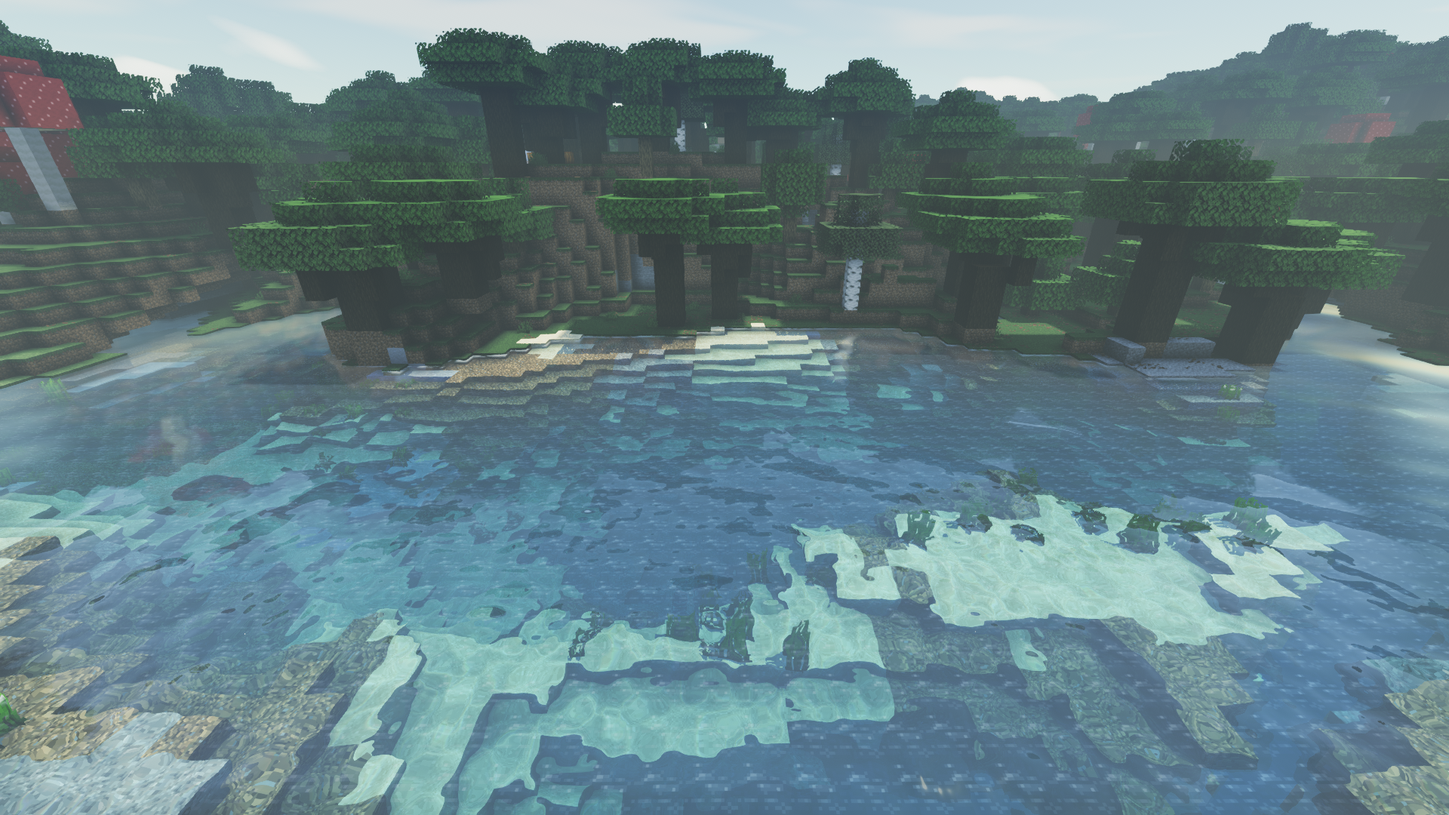
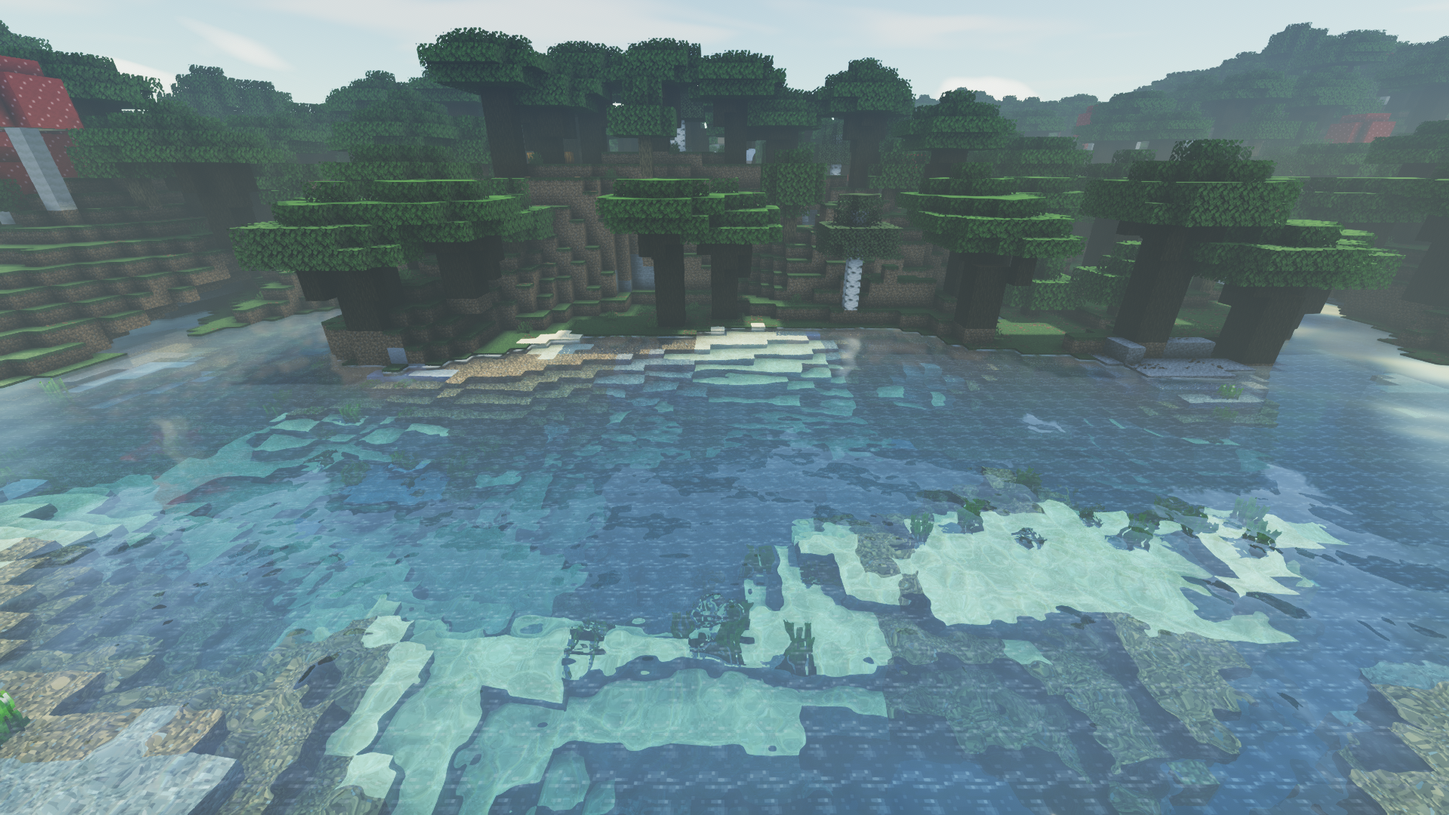
Тени и GI не проступают сквозь туман пака, отражения без чёрных пятен; 0.2.2
Мод рисует поверх кадра, где туман пака уже наложен, и тень проступала
сквозь дымку тёмными блоками. Теперь мод сам оценивает прозрачность
воздуха по расстоянию: сравнивает картинку пака со своей моделью
освещения (наклон ковариации по 8 корзинам через 16 блоков), сглаживает
по кадрам и ослабляет тени, GI и цвет модели в отражениях на T².

Отражения: рассеянный свет из кэша не ниже половины небесного (чёрные
грани у воды), через дымку берётся цвет кадра. README: пересняты тени
пака и мода и рябь на этой версии.

Проверено в игре у озера утром с Zenith RT; тени вблизи сохраняются.

diff --git a/mod/src/mixins/passes.rs b/mod/src/mixins/passes.rs
@@ -108,6 +108,11 @@ fn zenith_passes(world: &mut WorldDrawn<'_>) {
         brick_build: wgpu::ComputePipeline,
         /// The texture origins of this frame's uploaded sections, for `brick_build`.
         brick_slots: wgpu::Buffer,
+        /// The fog samples of this frame, the clearness per distance they resolve to, and the
+        /// pass that resolves them.
+        fog_stats: wgpu::Buffer,
+        fog_t: wgpu::Buffer,
+        fog_resolve: wgpu::ComputePipeline,
         frame: u32,
         /// When the engine was made: the waves' clock.
         epoch: ::std::time::Instant,
@@ -441,6 +446,38 @@ fn sun_ray(pos: vec3<f32>, steps: i32) -> f32 {
 }
 "#;
     const TRACE: &str = r#"
+@group(0) @binding(6) var picture: texture_2d<f32>;
+// Per 16-block distance bin (8 of them), fixed point 1/1024 except the count: count, sum of the
+// picture's luma P, of the model's luma M, of P², of M², of P·M. Cleared every frame.
+@group(0) @binding(24) var<storage, read_write> fog_stats: array<atomic<u32>, 48>;
+
+// One fog sample: the pack's picture (before the engine's passes) at depth pixel `px` against the
+// model's unshadowed light times the block's colour there. Fog compresses how the picture follows
+// the model, so the slope of P over M in a bin, against the nearest bin's, is how clear the air
+// is that far: what the engine's shadows and bounce may still change there.
+fn fog_sample(px: vec2<i32>, p: vec3<f32>, n: vec3<f32>, dist: f32) {
+    let cell = vec3<i32>(floor(u.cam_frac.xyz + p - n * 0.05)) + u.cam_block.xyz;
+    let c = voxel(cell);
+    if (c == OUTSIDE || (c & 63u) == 0u || (c & 63u) == 12u || dist >= 128.0) {
+        return;
+    }
+    let here = light_smooth(u.cam_frac.xyz + p + n * 0.06);
+    let light = 0.04 + here.x * here.x * u.gi.z + 0.35 * here.y * here.y * (0.1 + 0.9 * u.gi.y)
+        + max(dot(n, normalize(u.sun.xyz)), 0.0) * u.gi.y;
+    let a = albedo_face(cell, n);
+    let m = min(dot(a, vec3<f32>(0.2126, 0.7152, 0.0722)) * light, 4.0);
+    let uv = (vec2<f32>(px) + 0.5) / vec2<f32>(u.size.xy);
+    let shown = textureLoad(picture, vec2<i32>(uv * vec2<f32>(u.size.zw)), 0).rgb;
+    let q = min(dot(shown, vec3<f32>(0.2126, 0.7152, 0.0722)), 4.0);
+    let o = u32(dist / 16.0) * 6u;
+    atomicAdd(&fog_stats[o], 1u);
+    atomicAdd(&fog_stats[o + 1u], u32(q * 1024.0));
+    atomicAdd(&fog_stats[o + 2u], u32(m * 1024.0));
+    atomicAdd(&fog_stats[o + 3u], u32(q * q * 1024.0));
+    atomicAdd(&fog_stats[o + 4u], u32(m * m * 1024.0));
+    atomicAdd(&fog_stats[o + 5u], u32(q * m * 1024.0));
+}
+
 @group(0) @binding(2) var mask_out: texture_storage_2d<rgba8unorm, write>;
 // Mobs and players, camera-relative: `u.misc.w` entries of two vec4 each, the whole model's box
 // (lowest corner, w its first part; highest corner, w its part count), then from vec4 128 the
@@ -512,6 +549,9 @@ fn trace(@builtin(global_invocation_id) id: vec3<u32>) {
         let p = position_at(px, d);
         let n = normal_at(px, p);
         vis = sun_visibility(p, n);
+        if ((id.x & 7u) == 0u && (id.y & 7u) == 0u) {
+            fog_sample(px, p, n, length(p));
+        }
         let here = light_smooth(u.cam_frac.xyz + p + n * 0.06);
         torch = here.x * here.x;
         // The sun's share of the light here, against a sunward open surface's (about 0.55): the
@@ -866,7 +906,9 @@ fn direct_light(at: vec3<f32>, n: vec3<f32>) -> f32 {
     if (u.gi_size.z != 0u && u.cache.x > 0.0) {
         let cached = cache_at(at);
         if (any(cached > vec3<f32>(0.0))) {
-            ambient = refl_luma(cached);
+            // Never below half the sky's: a probe by the water or in a gap can see little and
+            // turned the faces it lit black.
+            ambient = max(refl_luma(cached), 0.5 * ambient);
         }
     }
     var direct = 0.04 + here.x * here.x * u.gi.z + ambient;
@@ -1003,6 +1045,7 @@ fn reflect_trace(@builtin(global_invocation_id) id: vec3<u32>) {
                     // surface seen there matches it: a smooth weight, not a yes or no, so
                     // neighbouring texels don't flip between the picture and the model.
                     var shown = vec3<f32>(0.0);
+                    var sampled = false;
                     var trust = 0.0;
                     let clip = u.vp * vec4<f32>(rel, 1.0);
                     if (clip.w > 0.0) {
@@ -1018,6 +1061,7 @@ fn reflect_trace(@builtin(global_invocation_id) id: vec3<u32>) {
                                 trust = (1.0 - smoothstep(tolerance, 3.0 * tolerance, length(seen - rel)))
                                     * smoothstep(0.0, 0.05, edge);
                                 shown = textureLoad(picture, vec2<i32>(uv * vec2<f32>(u.size.zw)), 0).rgb;
+                                sampled = true;
                             }
                         }
                     }
@@ -1036,7 +1080,10 @@ fn reflect_trace(@builtin(global_invocation_id) id: vec3<u32>) {
                     }
                     var colour = vec3<f32>(-1.0);
                     if (model.x >= 0.0) {
-                        colour = mix(model, shown, trust);
+                        // The model knows no fog: through haze the picture's colour there (fog
+                        // tinted, even off the hit) is the better guess.
+                        let hazy = select(0.0, 1.0 - fog_clear(length(rel)), sampled);
+                        colour = mix(model, shown, max(trust, hazy));
                     } else if (trust > 0.0) {
                         colour = shown;
                     }
@@ -1131,6 +1178,63 @@ fn reflect_blend(@builtin(position) pos: vec4<f32>) -> @location(0) vec4<f32> {
     let view = normalize(position_at(px, d));
     let f = 0.02 + 0.98 * pow(1.0 - clamp(-view.y, 0.0, 1.0), 5.0);
     return vec4<f32>(sum / weight, clamp(weight / water * f * u.cache.z, 0.0, 1.0));
+}
+"#;
+    const FOG_RESOLVE: &str = r#"
+@group(0) @binding(24) var<storage, read> fog_stats: array<u32, 48>;
+// How clear the air is in each 16-block bin (1 clear, 0 all fog), eased over frames; [8] is the
+// near bins' slope everything is measured against.
+@group(0) @binding(25) var<storage, read_write> fog_t: array<f32, 9>;
+
+fn slope(b: u32) -> f32 {
+    let o = b * 6u;
+    let n = f32(fog_stats[o]);
+    if (n < 64.0) {
+        return -1.0;
+    }
+    let mp = f32(fog_stats[o + 1u]) / 1024.0 / n;
+    let mm = f32(fog_stats[o + 2u]) / 1024.0 / n;
+    let var_m = f32(fog_stats[o + 4u]) / 1024.0 / n - mm * mm;
+    let cov = f32(fog_stats[o + 5u]) / 1024.0 / n - mp * mm;
+    if (var_m < 1e-3) {
+        return -1.0;
+    }
+    return cov / var_m;
+}
+
+@compute @workgroup_size(1)
+fn fog_resolve() {
+    var reference = slope(0u);
+    if (reference <= 0.0) {
+        reference = slope(1u);
+    }
+    if (reference > 0.0) {
+        fog_t[8] = select(mix(fog_t[8], reference, 0.08), reference, fog_t[8] <= 0.0);
+    }
+    let r = fog_t[8];
+    var carried = 1.0;
+    for (var b = 0u; b < 8u; b++) {
+        let s = slope(b);
+        var clear = carried;
+        if (s >= 0.0 && r > 0.0) {
+            clear = clamp(s / r, 0.0, 1.0);
+        }
+        carried = clear;
+        fog_t[b] = mix(fog_t[b], clear, 0.08);
+    }
+}
+"#;
+    const FOG_READ: &str = r#"
+@group(0) @binding(25) var<storage, read> fog_t: array<f32, 9>;
+
+// How clear the air is `dist` blocks away, between the bins' centres.
+fn fog_clear(dist: f32) -> f32 {
+    let x = max(dist / 16.0 - 0.5, 0.0);
+    let i = min(u32(floor(x)), 7u);
+    let clear = mix(fog_t[i], fog_t[min(i + 1u, 7u)], clamp(x - f32(i), 0.0, 1.0));
+    // Squared: the slope ratio is a noisy estimate, and a shadow through haze shows as a
+    // ghost long before the haze is complete; clear air (1) stays 1.
+    return clear * clear;
 }
 "#;
     const BRICK_BUILD: &str = r#"
@@ -1300,7 +1404,7 @@ fn bounce(pos: vec4<f32>) -> vec3<f32> {
     // own colours. Only the bounce, what is left above it, takes the block's hue.
     let darker = min(min(ratio.x, min(ratio.y, ratio.z)), 0.0);
     let brighter = ratio - vec3<f32>(darker);
-    return (colour * darker + shown * brighter * hue) * u.gi.x * fade;
+    return (colour * darker + shown * brighter * hue) * u.gi.x * fade * fog_clear(dist);
 }
 
 @fragment
@@ -1363,7 +1467,9 @@ fn visibility(pos: vec4<f32>) -> f32 {
     }
     let vis = sum / max(weight, 1e-4);
     let dist = length(position_at(px, d0));
-    let fade = 1.0 - smoothstep(u.params.y, u.params.z, dist);
+    // Faded toward the window's edge, and by the pack's fog there: the picture is already fogged,
+    // and a shadow multiplied into the fog would show through it.
+    let fade = (1.0 - smoothstep(u.params.y, u.params.z, dist)) * fog_clear(dist);
     return mix(1.0, vis, fade);
 }
 
@@ -1573,6 +1679,29 @@ fn replace(@builtin(position) pos: vec4<f32>) -> @location(0) vec4<f32> {
             usage: wgpu::BufferUsages::STORAGE | wgpu::BufferUsages::COPY_DST,
             mapped_at_creation: false,
         });
+        let fog_stats = device.create_buffer(&wgpu::BufferDescriptor {
+            label: Some("zenith_engine fog samples"),
+            size: 48 * 4,
+            usage: wgpu::BufferUsages::STORAGE | wgpu::BufferUsages::COPY_DST,
+            mapped_at_creation: false,
+        });
+        let fog_t = device.create_buffer(&wgpu::BufferDescriptor {
+            label: Some("zenith_engine fog clearness"),
+            size: 9 * 4,
+            usage: wgpu::BufferUsages::STORAGE,
+            mapped_at_creation: true,
+        });
+        {
+            let mut ones: Vec<u8> = Vec::with_capacity(36);
+            for i in 0..9 {
+                ones.extend_from_slice(&f32::to_ne_bytes(if i < 8 { 1.0 } else { 0.0 }));
+            }
+            if let Ok(mut range) = fog_t.slice(..).get_mapped_range_mut() {
+                range.copy_from_slice(&ones);
+            }
+        }
+        fog_t.unmap();
+        let fog_resolve = compute(device, "zenith_engine fog resolve", FOG_RESOLVE.to_owned(), "fog_resolve");
         let dummy = device
             .create_texture(&wgpu::TextureDescriptor {
                 label: Some("zenith_engine no target"),
@@ -1592,7 +1721,7 @@ fn replace(@builtin(position) pos: vec4<f32>) -> @location(0) vec4<f32> {
         let reflect = compute(
             device,
             "zenith_engine reflect",
-            format!("{UNIFORM}{DEPTH}{VOXEL}{MARCH}{CACHE}{REFLECT}"),
+            format!("{UNIFORM}{DEPTH}{VOXEL}{MARCH}{CACHE}{FOG_READ}{REFLECT}"),
             "reflect_trace",
         );
         let reflect_temporal = compute(
@@ -1619,7 +1748,7 @@ fn replace(@builtin(position) pos: vec4<f32>) -> @location(0) vec4<f32> {
             format!("{UNIFORM}{DEPTH}{GI_TEMPORAL}"),
             "gi_temporal",
         );
-        let shade = module(device, "zenith_engine shade", format!("{UNIFORM}{SHADE}"));
+        let shade = module(device, "zenith_engine shade", format!("{UNIFORM}{FOG_READ}{SHADE}"));
         // The picture times the shade: colour = src * dst, alpha kept.
         let multiply_blend = wgpu::BlendState {
             color: wgpu::BlendComponent {
@@ -1638,7 +1767,7 @@ fn replace(@builtin(position) pos: vec4<f32>) -> @location(0) vec4<f32> {
         let gi_shade = module(
             device,
             "zenith_engine gi shade",
-            format!("{UNIFORM}{DEPTH}{VOXEL}{GI_SHADE}"),
+            format!("{UNIFORM}{DEPTH}{VOXEL}{FOG_READ}{GI_SHADE}"),
         );
         // The picture plus the bounce, alpha kept.
         let add_blend = wgpu::BlendState {
@@ -1735,6 +1864,9 @@ fn replace(@builtin(position) pos: vec4<f32>) -> @location(0) vec4<f32> {
             dummy,
             bricks_view,
             sections_view,
+            fog_stats,
+            fog_t,
+            fog_resolve,
             brick_build,
             brick_slots,
             format,
@@ -2027,7 +2159,10 @@ fn replace(@builtin(position) pos: vec4<f32>) -> @location(0) vec4<f32> {
             }
         }
     }
-    let wants_picture = settings.gi != 0 || settings.reflections > 0.0 || !engine.pack_pipelines.is_empty();
+    let wants_picture = settings.shadows != 0
+        || settings.gi != 0
+        || settings.reflections > 0.0
+        || !engine.pack_pipelines.is_empty();
     if wants_picture && !picture_fits {
         let texture = device.create_texture(&wgpu::TextureDescriptor {
             label: Some("zenith_engine picture"),
@@ -2433,7 +2568,18 @@ fn replace(@builtin(position) pos: vec4<f32>) -> @location(0) vec4<f32> {
     let previous = &engine.gi_history[engine.gi_last];
     let next = &engine.gi_history[1 - engine.gi_last];
 
-    if settings.shadows != 0 {
+    if let (true, Some((copy, picture))) = (settings.shadows != 0, engine.picture.as_ref()) {
+        // The pack's picture as it came, for the fog samples.
+        world.encoder.copy_texture_to_texture(
+            world.color.as_image_copy(),
+            copy.as_image_copy(),
+            wgpu::Extent3d {
+                width,
+                height,
+                depth_or_array_layers: 1,
+            },
+        );
+        world.encoder.clear_buffer(&engine.fog_stats, 0, None);
         {
             let group = device.create_bind_group(&wgpu::BindGroupDescriptor {
                 label: Some("zenith_engine trace"),
@@ -2444,9 +2590,12 @@ fn replace(@builtin(position) pos: vec4<f32>) -> @location(0) vec4<f32> {
                     entry(2, view(mask_view)),
                     entry(3, view(&engine.voxel_view)),
                     entry(4, view(&engine.sky_view)),
+                    entry(6, view(picture)),
+                    entry(9, view(&engine.colour_view)),
                     entry(10, engine.boxes.as_entire_binding()),
                     entry(16, view(&engine.bricks_view)),
                     entry(19, view(&engine.sections_view)),
+                    entry(24, engine.fog_stats.as_entire_binding()),
                 ],
             });
             let mut pass = world
@@ -2459,6 +2608,23 @@ fn replace(@builtin(position) pos: vec4<f32>) -> @location(0) vec4<f32> {
             pass.set_bind_group(0, &group, &[]);
             pass.dispatch_workgroups(depth_w.div_ceil(8), depth_h.div_ceil(8), 1);
         }
+        let group = device.create_bind_group(&wgpu::BindGroupDescriptor {
+            label: Some("zenith_engine fog resolve"),
+            layout: &engine.fog_resolve.get_bind_group_layout(0),
+            entries: &[
+                entry(24, engine.fog_stats.as_entire_binding()),
+                entry(25, engine.fog_t.as_entire_binding()),
+            ],
+        });
+        let mut pass = world
+            .encoder
+            .begin_compute_pass(&wgpu::ComputePassDescriptor {
+                label: Some("zenith_engine fog resolve"),
+                timestamp_writes: None,
+            });
+        pass.set_pipeline(&engine.fog_resolve);
+        pass.set_bind_group(0, &group, &[]);
+        pass.dispatch_workgroups(1, 1, 1);
     }
     if settings.gi != 0 && settings.gi_bounces > 0.0 {
         let group = device.create_bind_group(&wgpu::BindGroupDescriptor {
@@ -2603,6 +2769,7 @@ fn replace(@builtin(position) pos: vec4<f32>) -> @location(0) vec4<f32> {
             entry(1, view(mask_view)),
             entry(2, view(world.depth)),
         ];
+        entries.push(entry(25, engine.fog_t.as_entire_binding()));
         if settings.shadows == 1 {
             entries.push(entry(3, view(shafts_view)));
         }
@@ -2655,6 +2822,7 @@ fn replace(@builtin(position) pos: vec4<f32>) -> @location(0) vec4<f32> {
                 entry(5, view(&engine.gi_filtered[1])),
                 entry(6, view(picture)),
                 entry(9, view(&engine.colour_view)),
+                entry(25, engine.fog_t.as_entire_binding()),
             ],
         });
         let mut pass = world.encoder.begin_render_pass(&wgpu::RenderPassDescriptor {
@@ -2711,6 +2879,7 @@ fn replace(@builtin(position) pos: vec4<f32>) -> @location(0) vec4<f32> {
                     entry(16, view(&engine.bricks_view)),
                     entry(19, view(&engine.sections_view)),
                     entry(15, engine.exposure.as_entire_binding()),
+                    entry(25, engine.fog_t.as_entire_binding()),
                 ],
             });
             let mut pass = world

diff --git a/README.md b/README.md
@@ -106,7 +106,7 @@
 | `shadows` | `auto` (по умолчанию) — когда у выбранного пака включена опция `engine_shadows`; `on`; `off`; `mask` — только маска теней |
 | `shadow_strength` | на сколько умножается полностью затенённый пиксель, 0–1. По умолчанию 0.45: так же темна тень самого Zenith (замер на песке, Zenith RT Ultra, 8 утра) |
 | `gi` | `auto` (по умолчанию) — вместе с тенями мода, кроме Zenith RT в режиме Full RT, где у пака свой GI; `on`; `off`; `debug` — только отражённый свет |
-| `gi_strength` | сколько отражённого света прибавить, 0–4. По умолчанию 1, физически ровно |
+| `gi_strength` | сколько отражённого света прибавить, 0–4. По умолчанию 0.7; прибавка мягко ограничена ~40% яркости пикселя |
 | `gi_block_light` | насколько ярок свет факелов и лавы в отскоке по сравнению с солнцем (1), 0–4. По умолчанию 1.2 |
 | `gi_emissive` | насколько ярко светящиеся блоки (лава, светокамень) светят через лучи, 0–8. По умолчанию 1.5 |
 | `gi_bounces` | сколько света прошлых отскоков (кэш излучения) приносят лучи, 0 (один отскок) – 1. По умолчанию 0.7 |
@@ -118,12 +118,12 @@
 
 ## Известные недостатки
 
-- **Наложение на готовый кадр.** Тени ложатся после тонмаппинга пака, поэтому мод не знает, какая часть пикселя — солнце. Он оценивает долю солнца по своей модели (угол к солнцу против рассеянного света неба и света от блоков) и затемняет только её: грани, освещённые вскользь, и вода темнеют меньше, свет факелов в тени сохраняется. Это оценка, а не точное разделение света пака.
+- **Наложение на готовый кадр.** Тени ложатся после тонмаппинга пака, поэтому мод не знает, какая часть пикселя — солнце. Он оценивает долю солнца по своей модели (угол к солнцу против рассеянного света неба и света от блоков) и затемняет только её: грани, освещённые вскользь, и вода темнеют меньше, свет факелов в тени сохраняется. Это оценка, а не точное разделение света пака. **Туман пака** уже нарисован в кадре, и тень, умноженная поверх, проступала бы сквозь дымку тёмными блоками. Поэтому мод каждый кадр оценивает прозрачность воздуха на каждом расстоянии: в ~32 тыс. точек сравнивает картинку пака со своей моделью освещения, и наклон зависимости «модель → картинка» вдали против наклона вблизи даёт, насколько дымка гасит детали. Тень и GI ослабляются на квадрат этой прозрачности. Это оценка: в очень неоднородном тумане (полоса над водой) слабые следы теней могут остаться.
 - **Сущности.** Тень моба собирается из коробок частей модели (повёрнутая часть даёт чуть большую коробку), не больше 448 частей на кадр. В GI и отражениях сущностей нет.
 - **GI.** Многократные отскоки идут через грубый кэш излучения (зонды через 2 блока), поэтому вторичный свет мягкий и сходится за несколько секунд после изменений. Прибавка мягко ограничена удвоением яркости пикселя: в замкнутых комнатах свет от блоков Minecraft уже заливает стены, и полный отскок поверх него выбеливал их. Денойзер — два прохода à-trous поверх накопления по кадрам.
 - **Цвета блоков.** Два средних цвета на блок (верхняя и боковая грань, подкраска биома по месту камеры при первой встрече блока), а не текстура целиком. После смены ресурспака (F3+T) цвета читаются заново по мере того, как игра перестраивает секции.
 - **Стоимость** на 1920×1080, RX 7600, Zenith RT Ultra, у озера в лесу, по собственным timestamp-запросам мода (в скобках — без пропуска пустоты, `skip_empty = off`): трассировка теней 0,83 мс (3,64), трассировка GI 1,42 мс (4,07), объёмные тени 0,80 мс (1,21), отражения 0,28 мс (0,70), кэш излучения 0,07 мс, наложение теней 0,21 мс, наложение GI 0,26 мс, остальное меньше 0,1 мс; всего около 4 мс GPU, CPU мода около 1 мс. Мод пишет эти средние в лог игры раз в 2 секунды (`zenith_engine timing`).
-- **Отражения.** Только вода. Высота поверхности считается ровной (8/9 блока), а рябь своя: пять бегущих волн мода, а не волны пака, поэтому блики пака и изгибы отражения не совпадают. Отражение считается в половинном разрешении и смешивается билинейно; при сильной ряби у берега края всё равно мягче, чем у пака. Небо отражает сам пак: мод рисует только попадания в блоки. За краем экрана блок окрашен одним средним цветом грани (верх или бок), а освещение мода приближённое: солнце, свет от блоков и рассеянный свет из кэша GI (без GI — vanilla-свет неба), подогнанные под кадр по яркости и насыщенности. Трава и цветы не отражаются, как и сущности.
+- **Отражения.** Только вода. Высота поверхности считается ровной (8/9 блока), а рябь своя: пять бегущих волн мода, а не волны пака, поэтому блики пака и изгибы отражения не совпадают. Отражение считается в половинном разрешении и смешивается билинейно; при сильной ряби у берега края всё равно мягче, чем у пака. Небо отражает сам пак: мод рисует только попадания в блоки. За краем экрана блок окрашен одним средним цветом грани (верх или бок), а освещение мода приближённое: солнце, свет от блоков и рассеянный свет из кэша GI (без GI — vanilla-свет неба), подогнанные под кадр по яркости и насыщенности. Трава и цветы не отражаются, как и сущности. Отражение копится по кадрам (15% нового, с репроекцией) и сглаживается фильтром 3×3; цвет из кадра и цвет модели смешиваются плавно по тому, насколько точка на экране совпадает с попаданием, а в дымке берётся цвет кадра.
 - **Дальность.** Дальше 120 блоков от камеры эффекты гаснут: столько охватывает воксельное окно.
 
 ## Сборка

diff --git a/docs/ARCHITECTURE.md b/docs/ARCHITECTURE.md
@@ -117,6 +117,16 @@ Horizon Shader API 0.2 ограничивает шейдер-пак конста
 - Первая версия проверяла куб на каждом шаге и только кубы 4³; она была медленнее, чем без пропуска (8,1 мс теней против 3,4), из-за второй выборки на каждую клетку. Текущая: 0,83 мс против 3,64. Маски теней с пропуском и без совпадают с точностью до дрожания кадра пака.
 - `skip_empty = off` выключает пропуск для сравнения.
 
+## Туман пака
+
+Мод рисует поверх готового кадра, где туман и дымка пака уже наложены, поэтому тень и отскок, применённые к пикселю целиком, проступали сквозь дымку. Оценка прозрачности воздуха, без знания о модели тумана пака:
+- **Выборка.** Трассировка теней (полное разрешение) каждый 64-й пиксель ближе 128 блоков, не вода, сравнивает яркость кадра пака до проходов мода P с яркостью модели M = яркость цвета грани × (0,04 + свет блоков² × gi_block_light + 0,35 × (небо/15)² × (0,1 + 0,9 × солнце) + cos к солнцу × солнце) — без теней, как кадр пака с `engine_shadows`. По 8 корзинам расстояния через 16 блоков атомарно копятся n, ΣP, ΣM, ΣP², ΣM², ΣPM (фиксированная точка 1/1024, P и M до 4).
+- **Наклон.** В корзине наклон P по M = cov(P, M) / var(M). Туман сжимает его: P = T·k·M + (1 − T)·F, поэтому наклон вдали, делённый на наклон ближайшей корзины (её k), даёт прозрачность T. Текстурный шум не коррелирует с M и в ковариацию не входит. Корзина меньше чем с 64 точками или почти без разброса M берёт T предыдущей.
+- **Сглаживание.** Проход из одного потока сдвигает T каждой корзины на 8% к новой оценке за кадр, опорный наклон тоже сглажен.
+- **Применение.** Затемнение тенью, прибавка GI и цвет модели в отражениях умножаются на T² (интерполяция между центрами корзин): шум оценки и ранний проступ тени сквозь неполную дымку гасятся сильнее, ясный воздух (T = 1) остаётся 1.
+
+На кадре у озера утром с Zenith RT стволы в 30 блоках, скрытые дымкой (разброс яркости 1,7), получали от теней мода тёмные прямоугольники (разброс 10); с оценкой тумана картинка с тенями мода почти совпадает с картинкой без них, а тени вблизи остаются.
+
 ## Замеры
 
 Если у устройства есть `TIMESTAMP_QUERY` (Horizon запрашивает его, когда адаптер умеет), у каждого прохода мода есть пара timestamp-меток. Метки разрешаются в буфер и копируются в буфер для чтения. На следующем кадре, когда команды уже отправлены, буфер отображается в память, а ещё через кадр читается. Пока чтение не закончено, новые метки не пишутся. Средние по проходам и время CPU самого помощника раз в 2 секунды уходят в лог игры строкой `zenith_engine timing (ms): ...`.
@@ -188,3 +198,4 @@ Horizon Shader API 0.2 ограничивает шейдер-пак конста
 15. Проходам пака: свои текстуры с историей кадров и ошибки компиляции со строкой и столбцом файла пака. Проверено в игре.
 16. Протокол отражений: мод не рисует отражения воды, если пак отражает её сам (`engine_reflections` или включённое зеркало `[reflection]`). Проверено в игре с Zenith RT (папка), Zenith (`.hshader`) и тестовым паком с `engine_reflections`.
 17. Тени затемняют только долю солнца в пикселе, прибавка GI мягко ограничена; кадры README пересняты на этой версии. Проверено в игре.
+18. Качество: отражения без зерна (плавный вес совпадения, накопление по кадрам, фильтр 3×3), GI без заливки (предел ~40%, оттенок наполовину, сила 0.7), пятнистая тень от листвы, оценка тумана пака для теней, GI и отражений. Проверено в игре с Zenith RT.
